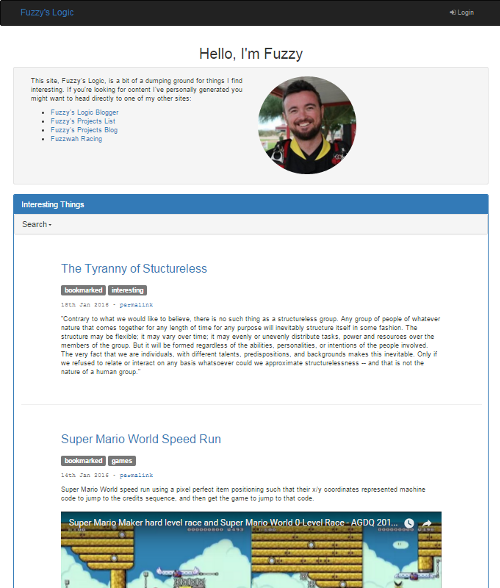
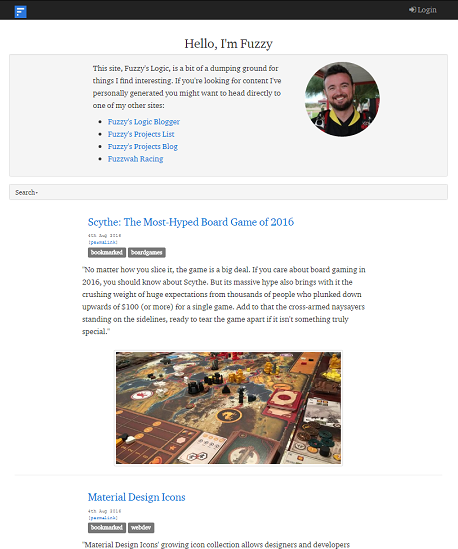
updated fl img and add mplayer project

diff --git a/index.html b/index.html
@@ -23,14 +23,14 @@
       footer {
         margin: 50px 0;
       }
-      
+
       .hero-unit {
         background-image:url('media/images/hero.jpg');
         background-size:cover;
         background-color: #11111;
         color: #FFFFFF;
-        
-      }   
+
+      }
       .hero-unit h1 {
         color: #FFFFFF;
         letter-spacing: -1px;
@@ -46,35 +46,35 @@
 
     /* Large desktop */
     @media (min-width: 1200px) { ... }
-     
+
     /* Portrait tablet to landscape and desktop */
     @media (min-width: 768px) and (max-width: 979px) { ... }
-     
+
     /* Landscape phone to portrait tablet */
     @media (max-width: 767px) { ... }
-     
+
     /* Landscape phones and down */
     @media (max-width: 480px) { ... }
     </style>
-        
+
 
 
         <link rel="shortcut icon" href="media/img/favicon.ico">
-        
+
         <!-- HTML5 shim and Respond.js for IE8 support of HTML5 elements and media queries -->
     <!--[if lt IE 9]>
       <script src="https://oss.maxcdn.com/html5shiv/3.7.2/html5shiv.min.js"></script>
       <script src="https://oss.maxcdn.com/respond/1.4.2/respond.min.js"></script>
-    <![endif]-->  
-      
+    <![endif]-->
+
     <!-- HTML5 Shim and Respond.js IE8 support of HTML5 elements and media queries -->
     <!-- WARNING: Respond.js doesn't work if you view the page via file:// -->
     <!--[if lt IE 9]>
         <script src="https://oss.maxcdn.com/libs/html5shiv/3.7.0/html5shiv.js"></script>
         <script src="https://oss.maxcdn.com/libs/respond.js/1.4.2/respond.min.js"></script>
-    <![endif]-->     
-    
-                 
+    <![endif]-->
+
+
   </head>
 
   <body role="document">
@@ -140,7 +140,7 @@
       <!-- /.header -->
     <!-- Page Content -->
     <div class="container">
-        
+
         <!-- project -->
         <div class="row">
             <div class="col-md-5 col-md-offset-1">
@@ -187,7 +187,7 @@
                 <h3>HearthTrack.me</h3>
                 <h4>Simple results tracking for Hearthstone</h4>
                 <p>I created this site for people who play hearthstone on devices which can not run automatic results tracking.</p>
-                <p>Using this site mobile device players, or people who play from a number of different devices can manually track their results in a single place.</p>              
+                <p>Using this site mobile device players, or people who play from a number of different devices can manually track their results in a single place.</p>
                 <p><a class="btn btn-primary" href="http://hearthtrack.me/">Visit HearthTrack.me <span class="glyphicon glyphicon-chevron-right"></span></a></p>
             </div>
             <div class="col-md-5 col-md-offset-1">
@@ -200,6 +200,27 @@
         <br />
         <hr>
         <!-- /.project -->
+
+        <!-- project -->
+        <div class="row">
+            <div class="col-md-5 col-md-offset-1">
+                <h3>mplayer web & mouse control</h3>
+                <h4>Trigger mp3 playback via mouse click or remotely</h4>
+                <p>I've rigged this system up to run on a headless raspberry pi (running raspbian) in my baby's bedroom. It allows us to trigger playback of a music play list which we call our 'sleepy baby bedtime megamix'. Playback can be controlled either by clicking buttons on a wireless mouse which sits on the change table or via a webpage accessed from either a computer or our Android phones. The intial idea was to allow me to kick off playback in the middle of the night with out getting out of bed, if we heard our baby stirring.</p>
+                <p>The mouse controls are: left button starts playback, right button stops playback, mouse wheel to control volume up or down.</p>
+                <p><a class="btn btn-primary" href="https://github.com/Fuzzwah/mplayer-web-mouse-control">GitHub repo <span class="glyphicon glyphicon-chevron-right"></span></a></p>
+            </div>
+            <div class="col-md-5 col-md-offset-1">
+                <a href="#">
+                    <img class="img-responsive" src="media/images/mplayer_web_mouse_control.png" alt="">
+                </a>
+            </div>
+        </div>
+        <br />
+        <br />
+        <hr>
+        <!-- /.project -->
+
 
         <!-- Footer -->
         <footer>
@@ -214,15 +235,15 @@
     </div>
     <!-- /.container -->
 
-     
-    
+
+
                     <script src="https://ajax.googleapis.com/ajax/libs/jquery/1.11.3/jquery.min.js"></script>
     <script>window.jQuery || document.write('<script src="media/js/libs/jquery.min.js"><\/script>')</script>
-    
+
         <script src="media/js/libs/bootstrap.min.js"></script>
     <script src="media/js/libs/ie10-viewport-bug-workaround.js"></script>
-    
-        
+
+
 
     <!--[if lt IE 7 ]>
       <script src="media/js/libs/dd_belatedpng.js"></script>
